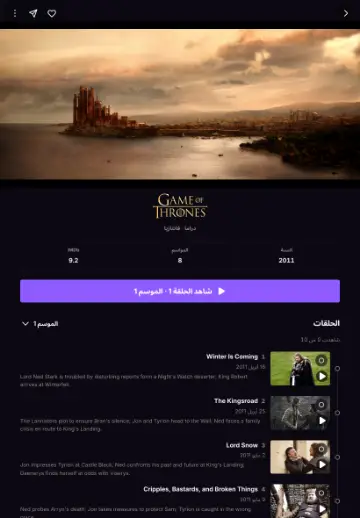
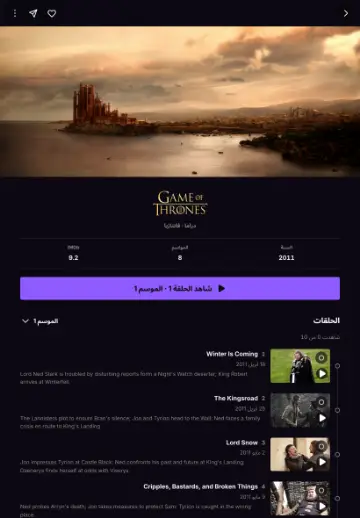
fix(cinema): معاينات «المسلسل أولًا» و«الشريط العريض» الجديدة وحارس الأنماط الخمسة
الـcommit السابق 9154953d دُفع وحارس look-previews أحمر (اختباران): النمط الجديد بلا لقطات معاينة،
والحارس يثبت أربعة أنماط سينما. وُلّدت اللقطات من التطبيق نفسه
(ONLY=work-cinema-series/marquee node tools/ui-previews/generate-look-previews.mjs)، ومعاينة «الشريط
العريض» تعرض البنر بلا قص، والحارس على قرار 12 نوفمبر. vitest: 2557 أخضر؛ repository-safety 55/55.

Claude-Session: https://claude.ai/code/session_01Q5Ts79Fj23zwWEJBf8uymD

diff --git a/apps/web/v35/look-previews.test.js b/apps/web/v35/look-previews.test.js
@@ -14,16 +14,16 @@ describe('لقطات المعاينة الحقيقية', () => {
     for (const p of requiredPreviews()) expect(statSync(resolve(WEB, p.slice(1))).size).toBeLessThan(90_000);
   });
 
-  it('القائمة تغطي كل أنماط المانجا والأنمي والسينما (الأساسي وثلاثة أنماط)', () => {
+  it('القائمة تغطي كل أنماط المانجا والأنمي والسينما (الأساسي وأربعة أنماط، قرار 12 نوفمبر)', () => {
     const all = requiredPreviews();
     for (const s of MANGA_WORK_STYLES) expect(all).toContain(workPreview('manga', s.id, 'phone'));
     for (const s of WORK_STYLES) expect(all).toContain(workPreview('anime', s.id, 'pc'));
     expect(all).toContain(workPreview('cinema', 'current', 'ipad'));
     for (const s of CINEMA_WORK_STYLES) expect(all).toContain(workPreview('cinema', s.id, 'phone'));
-    expect(CINEMA_WORK_STYLES.map((s) => s.id)).toEqual(['current', 'premiere', 'poster', 'marquee']);
+    expect(CINEMA_WORK_STYLES.map((s) => s.id)).toEqual(['current', 'premiere', 'poster', 'marquee', 'series']);
     expect(all).toContain(homePreview('cinema', 'phone'));
     expect(all).toContain(homePreview('unified', 'phone'));
-    expect(all).toHaveLength(3 * (3 + 4 + 5 + 4) + 3);
+    expect(all).toHaveLength(3 * (3 + 4 + 5 + 5) + 3);
   });
 
   it('لا لقطة يتيمة في المجلد: كل ملف له نمط أو رئيسية', () => {
